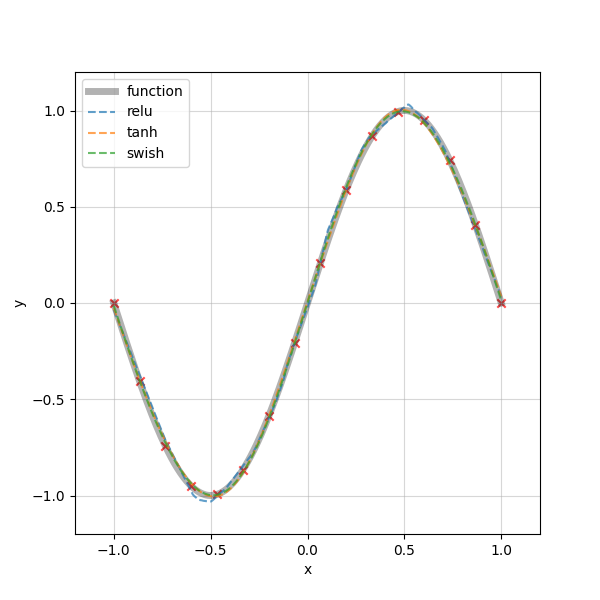
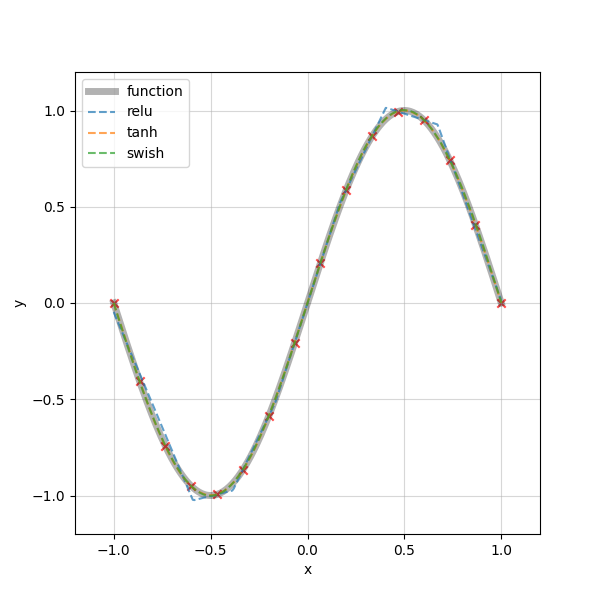
fix dnn

diff --git a/00_tf2/dnn.py b/00_tf2/dnn.py
@@ -33,6 +33,10 @@ class DNN(tf.keras.Model):
         self.d_type = d_type   # data type
         self.r_seed = r_seed   # random seed
 
+        print("\n************************************************************")
+        print("********************     DELLO WORLD     *******************")
+        print("************************************************************")
+
         # set data type and random seed
         self.type_seed(self.d_type, self.r_seed)
 
@@ -57,11 +61,6 @@ class DNN(tf.keras.Model):
         self.optimizer = self.opt_alg(self.lr, self.opt)
         self.loss_log = []
         self.save_path = "./saved_model/"
-
-        # print some key settings
-        print("\n************************************************************")
-        print("********************     DELLO WORLD     *******************")
-        print("************************************************************")
 
     def type_seed(
         self, d_type, r_seed

diff --git a/00_tf2/main.py b/00_tf2/main.py
@@ -17,7 +17,7 @@ def main():
     config_gpu(gpu_flg)
 
     # problem setup
-    p_id = 0
+    p_id = 2
     xmin = -1.
     xmax =  1.
     nx   = 2 ** 8
@@ -26,7 +26,7 @@ def main():
     # params
     f_in   = 1
     f_out  = 1
-    f_hid  = 2 ** 2
+    f_hid  = 5
     depth  = 3
     b_init = "zeros"
     lr     = 5e-4
